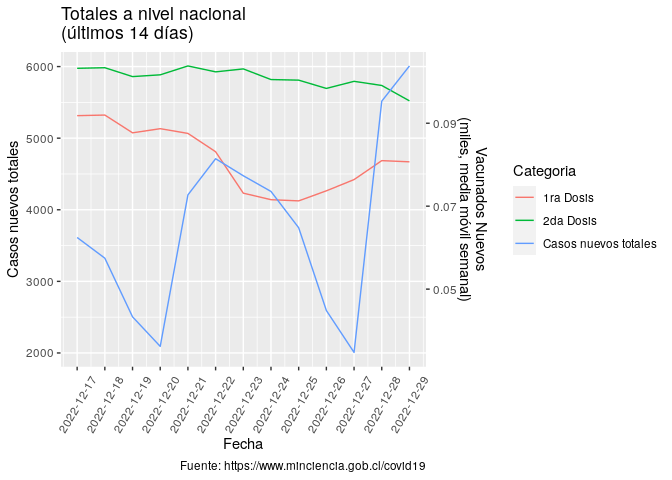
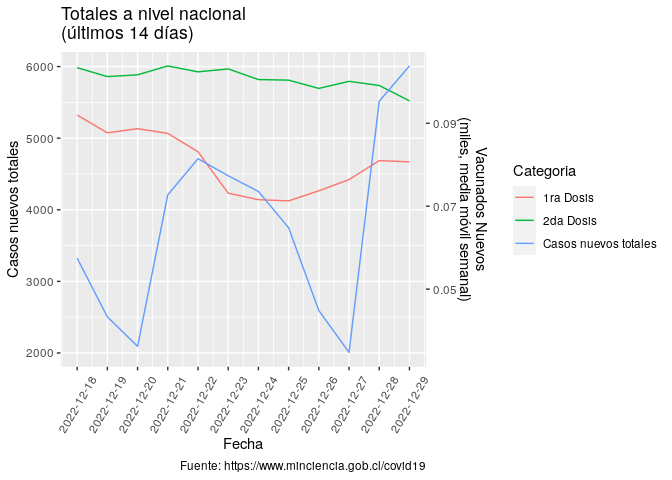
Re-build Rmarkdown files

diff --git a/README.md b/README.md
@@ -3,7 +3,7 @@
 
 Ejemplo de uso de total\_casos de COVID recopilados por el Ministerio de
 Ciencia de Chile <https://www.minciencia.gob.cl/covid19>. Última
-actualización: 2022-12-30
+actualización: 2022-12-31
 
 ## Visualización desde el comienzo de la pandemia
 
